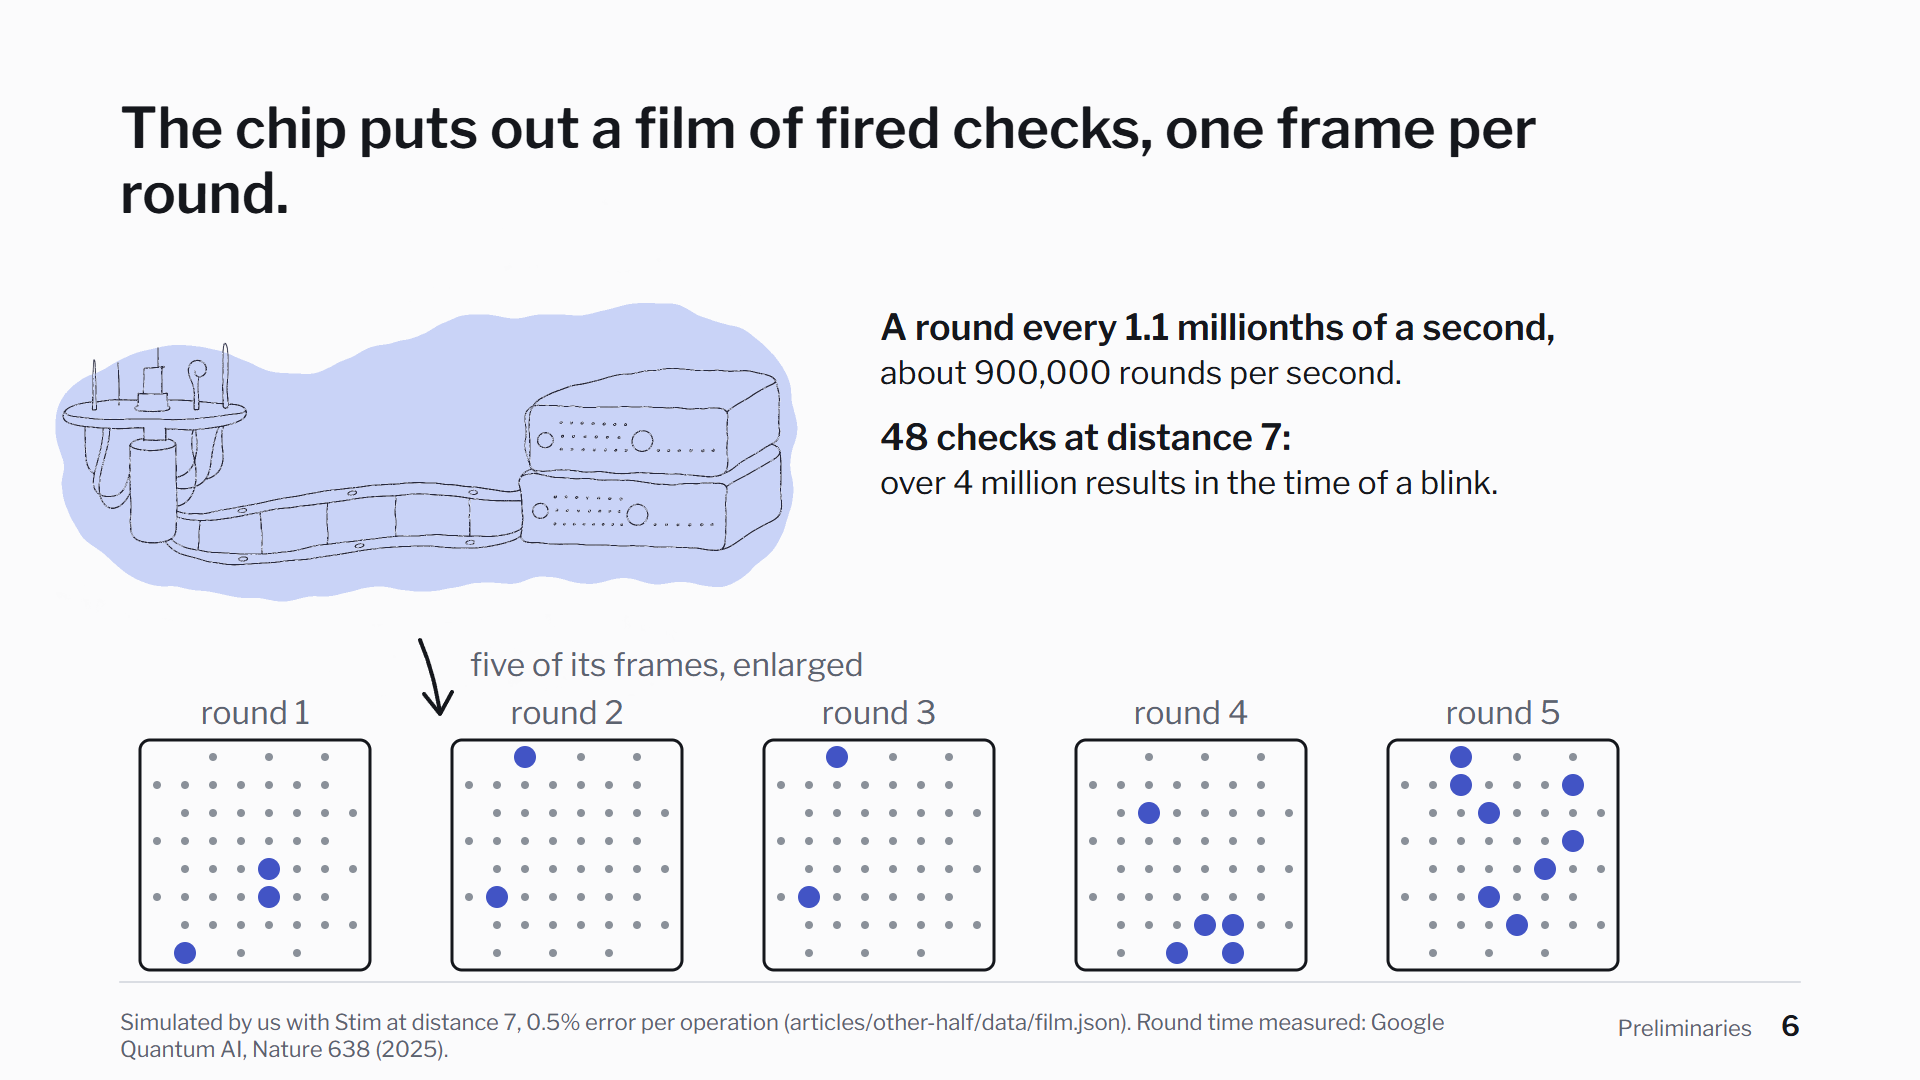
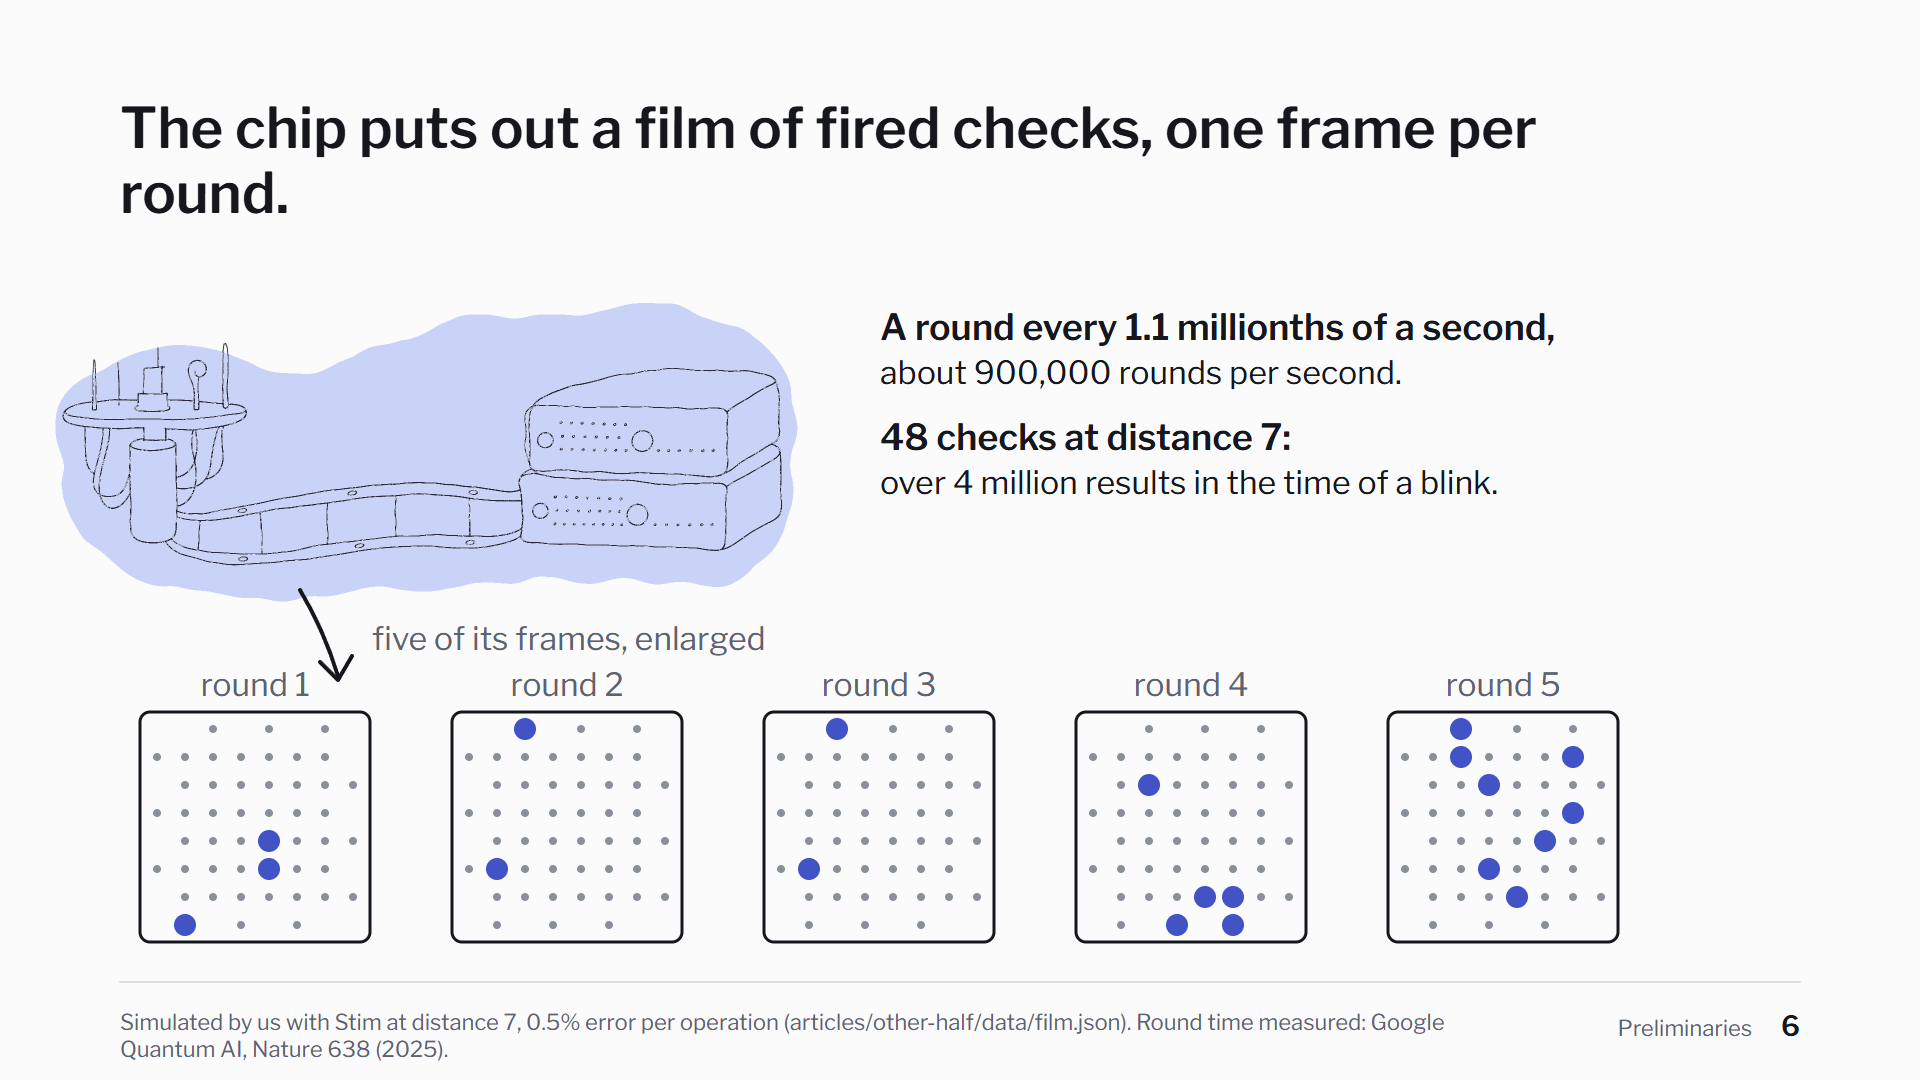
talks/quantum: review round 2 fixed (fired checks one look, labels at lines, notes and backups to the article)

diff --git a/talks/quantum/slides/14-ours/slide.js b/talks/quantum/slides/14-ours/slide.js
@@ -28,7 +28,7 @@ export default {
       const Y = (r) => y1 - ((r - ylo) / (yhi - ylo)) * (y1 - y0);
       ln(svg, x0, y0, x0, y1); ln(svg, x0, y1, x1, y1);
       T(svg, x0, y0 - 26, head, { size: 36, weight: 600 });
-      for (let v = 0; v <= xmax + 1; v += step) { ln(svg, X(v), y1, X(v), y1 + 12); T(svg, X(v), y1 + 46, String(v / 1e6), { size: 32, anchor: 'middle', fill: C.muted }); }
+      for (let v = 0; v <= xmax + 1; v += step) { ln(svg, X(v), y1, X(v), y1 + 12); T(svg, X(v), y1 + 46, String(v / 1e6), { size: 32, anchor: 'middle', fill: C.ink }); }
       T(svg, x1, y1 + 88, 'examples seen, millions', { size: 32, anchor: 'end', fill: C.muted });
       for (let r = ylo; r <= yhi + 1e-9; r += 0.002) { ln(svg, x0 - 10, Y(r), x0, Y(r)); T(svg, x0 - 16, Y(r) + 11, pct(r, 1), { size: 32, anchor: 'end', fill: C.muted }); }
       const clipId = `c${x0}`;
@@ -55,7 +55,9 @@ export default {
     const la = A.Y(0.0193);
     T(svg, A.x1, la, `network ${pct(p3.final_network.mean)}`, { size: 44, weight: 600, fill: C.accent, anchor: 'end' });
     ln(svg, ax - 6, la + 20, ax - 2, ay - 14, { stroke: C.accent, 'stroke-width': 3 });
-    T(svg, L, 960, `dashed: correlated ${pct(p3.levels.correlated.rate)}, lead not counted (B4); dotted: lookup table ${pct(p3.levels.table.rate)}`, { size: 32 });
+    // the dashed and dotted lines named at their own left ends
+    T(svg, A.x0 + 120, A.Y(p3.levels.correlated.rate) + 40, `correlated ${pct(p3.levels.correlated.rate)} (lead not counted, B4)`, { size: 32 });
+    T(svg, A.x0 + 20, A.Y(p3.levels.table.rate) + 40, `lookup table ${pct(p3.levels.table.rate)}`, { size: 32 });
     // right: distance 5, 0 to 260 million, fixed from the first build
     const B = panel(1100, R, 260e6, 50e6, 0.010, 0.024, 'Distance 5');
     level(B, p66.levels.plain.rate); level(B, p66.levels.correlated.rate, '18 12');

diff --git a/talks/quantum/slides/b3-noise-model/slide.js b/talks/quantum/slides/b3-noise-model/slide.js
@@ -7,6 +7,6 @@ export default {
   clicks: ['backup'],
   draw(page, b, data) {
     const svg = svgOf(page);
-    backup(svg, { title: this.title, n: this.n, source: "Stim (Gidney 2021), its standard circuit noise; article, section 9." }, { rows: [["The course", "The phase-flip channel: with chance p a qubit gets a phase error (Z).", "Our model contains it as one of its parts."], ["Ours", "Every operation in the simulated circuit goes wrong with the same", "chance p, with a flip, a phase error or both (X, Z or Y): depolarizing noise."], ["The levels", "Trained at seven levels from 0.2% to 1%; tested at 0.5%,", "five times the one slip per thousand of slide 2."], ["Not modelled", "Qubits leaving their two states (leakage), crosstalk, rates that differ", "from qubit to qubit or drift over time: a real chip has them."]] });
+    backup(svg, { title: this.title, n: this.n, source: "Stim (Gidney 2021), its standard circuit noise; article, sections 6 and 9, and 'What we could not show'." }, { rows: [["The course", "The phase-flip channel: with chance p a qubit gets a phase error (Z).", "Our model contains it as one of its parts."], ["Ours", "Every operation in the simulated circuit goes wrong with the same", "chance p, with a flip, a phase error or both (X, Z or Y): depolarizing noise."], ["The levels", "Trained at seven levels from 0.2% to 1%; tested at 0.5%,", "five times the one slip per thousand of slide 2."], ["Not modelled", "Qubits that slip into a third state (leakage), and chances of error", "that differ from operation to operation, as on a real chip."]] });
   },
 };

diff --git a/talks/quantum/slides/06-film/slide.js b/talks/quantum/slides/06-film/slide.js
@@ -27,7 +27,7 @@ export default {
       const both = run.frames[rounds[i]].filter((id) => run.frames[rounds[i + 1]].includes(id));
       if (both.length) twice = { i, id: both[0] };
     }
-    const fw = 230, gap = 82, y0 = 740, pitch = 28;
+    const fw = 230, gap = 82, y0 = 712, pitch = 28;
     // a check's centre sits half a pitch off its qubits; rows and columns run -1..d-1
     const pos = (c) => { const g = toGrid(c, dd); return [17 + (g.col + 1) * pitch, 17 + (g.row + 1) * pitch]; };
     rounds.forEach((r, i) => {
@@ -42,9 +42,9 @@ export default {
       }
     });
     // the strip's frames, enlarged: an Excalidraw-like arrow from the drawn strip down to the row
-    pth(svg, 'M 420 640 C 432 668, 436 690, 440 712', { 'stroke-width': 4 });
-    pth(svg, 'M 424 694 L 440 714 L 452 692', { 'stroke-width': 4 });
-    T(svg, 470, 676, 'five of its frames, enlarged', { size: 32, fill: C.muted });
+    pth(svg, 'M 300 590 C 318 620, 330 650, 338 676', { 'stroke-width': 4 });
+    pth(svg, 'M 320 662 L 338 680 L 352 656', { 'stroke-width': 4 });
+    T(svg, 372, 650, 'five of its frames, enlarged', { size: 32, fill: C.muted });
     const tx = 880;
     if (b >= 1) {
       T(svg, tx, 340, 'A round every 1.1 millionths of a second,', { size: 36, weight: 600 });

diff --git a/talks/quantum/slides/15-properties/slide.js b/talks/quantum/slides/15-properties/slide.js
@@ -19,7 +19,7 @@ export default {
       ['Relevance', 'on Google’s data: Λ from 2.04 to 2.14, the reader alone', 'at Λ near 2, one more halving costs 64 qubits (97 to 161)'],
       ['Availability', 'about 250 million examples to pass plain matching', 'correlated matching is free; a network at live speed is only claimed'],
     ];
-    const y0 = 340, hh = 128;
+    const y0 = 330, hh = 118;
     rows.forEach(([k, a, c], i) => {
       const y = y0 + i * hh;
       ln(svg, L, y, R, y, { stroke: C.hair, 'stroke-width': 2 });
@@ -29,8 +29,8 @@ export default {
     });
     ln(svg, L, y0 + 4 * hh, R, y0 + 4 * hh, { stroke: C.hair, 'stroke-width': 2 });
     if (b >= 1) {
-      T(svg, L, 900, 'Our stop rule’s first test is passed: a laptop could train it, in under two hours per seed.', { size: 32, weight: 600 });
-      T(svg, L, 944, 'Its second test, on Google’s real recordings, is still open; correlated matching stays ahead.', { size: 32 });
+      T(svg, L, 872, 'Our stop rule’s first test is passed: by our timing a laptop would train it in under two hours per seed.', { size: 32, weight: 600 });
+      T(svg, L, 916, 'Its second test, on Google’s real recordings, is still open; correlated matching stays ahead.', { size: 32 });
     }
   },
 };

diff --git a/talks/quantum/slides/11-google/slide.js b/talks/quantum/slides/11-google/slide.js
@@ -19,7 +19,7 @@ export default {
     const Y = (v) => y1 - ((Math.log10(v) - lo) / (hi - lo)) * (y1 - y0);
     const X = (d) => x0 + 60 + ((d - 3) / 4) * (x1 - x0 - 160);
     ln(svg, x0, y0 - 10, x0, y1); ln(svg, x0, y1, x1, y1);
-    [100, 200, 500, 1000].forEach((v) => { ln(svg, x0 - 12, Y(v), x0, Y(v)); T(svg, x0 - 22, Y(v) + 12, String(v), { size: 32, anchor: 'end', fill: C.muted }); });
+    [100, 200, 500, 1000].forEach((v) => { ln(svg, x0 - 12, Y(v), x0, Y(v)); T(svg, x0 - 22, Y(v) + 12, String(v), { size: 32, anchor: 'end', fill: C.ink }); });
     [3, 5, 7].forEach((d) => { ln(svg, X(d), y1, X(d), y1 + 12); T(svg, X(d), y1 + 50, `distance ${d}`, { size: 32, anchor: 'middle' }); });
     T(svg, L, y0 - 40, 'logical errors per 100,000 rounds (log scale)', { size: 32, weight: 600 });
     const draw = (dec, col) => {

diff --git a/talks/quantum/slides/07-matching/slide.js b/talks/quantum/slides/07-matching/slide.js
@@ -25,7 +25,8 @@ export default {
     const ux = q0x - zx, uy = q0y - zy, n = Math.hypot(ux, uy);
     const qx = q0x + (ux / n) * 70, qy = q0y + (uy / n) * 70;
     pth(svg, `M${zx} ${zy} Q ${(zx + qx) / 2 - 12} ${(zy + qy) / 2 + 10} ${qx} ${qy}`, { 'stroke-width': 5 });
-    T(svg, qx - 10, qy - 24, 'edge', { size: 32, anchor: 'end', fill: C.muted });
+    pth(svg, `M${qx - 26} ${qy + 22} L${qx + 22} ${qy - 26}`, { 'stroke-width': 4, 'stroke-dasharray': '8 8' });
+    T(svg, qx - 20, qy - 30, 'edge', { size: 32, anchor: 'end', fill: C.muted });
     const [ax, ay] = c('x0'), [bx, by] = c('x1');
     pth(svg, `M${ax} ${ay} Q ${(ax + bx) / 2 + 30} ${(ay + by) / 2 - 30} ${bx} ${by}`, { 'stroke-width': 5 });
     const tx = 1060;

diff --git a/talks/quantum/kit.js b/talks/quantum/kit.js
@@ -92,6 +92,10 @@ export function slideGrid(parent, o) {
     t.field.setAttribute('stroke-width', 3);
     t.dot.setAttribute('r', Math.max(10, o.pitch * 0.15));   // the dot carries 'fired' on either kind of tile
     if (t.helper) t.helper.setAttribute('r', Math.max(6, o.pitch * 0.065));
+    // on slides a fired check looks the same on both kinds of tile (field and
+    // large dot); the kind stays in the outline (ink for flips, grey for phase)
+    const fired = t.setFired.bind(t), flips = t.check.asks_about === 'flips';
+    t.setFired = (p) => { fired(p); if (flips) t.base.setAttribute('fill-opacity', p > 0.001 ? 0 : 0.16); };
   });
   G.qubits.forEach((q) => q.el.setAttribute('stroke-width', 3));
   return G;

diff --git a/talks/quantum/slides/05-checks/slide.js b/talks/quantum/slides/05-checks/slide.js
@@ -27,7 +27,7 @@ export default {
     sw(360, true); T(svg, kx + 76, 360, 'tinted: asks about flips', { size: 32 });
     sw(440, false); T(svg, kx + 76, 440, 'open: asks about phase errors', { size: 32 });
     rc(svg, kx, 486, 52, 52, { fill: C.field, stroke: C.accent }); dot(svg, kx + 26, 512, 13, { fill: C.accent });
-    T(svg, kx + 76, 520, 'fired (blue dot): the answer changed', { size: 32, weight: 600, fill: C.accent });
+    T(svg, kx + 76, 520, 'fired (large blue dot): the answer changed', { size: 32, weight: 600, fill: C.accent });
     T(svg, kx, 610, 'X a flip, Z a phase error, Y both', { size: 32 });
     if (b === 1) {
       T(svg, kx, 720, 'One flip in the middle:', { size: 36, weight: 600 });

diff --git a/talks/quantum/slides/10-two-ways/slide.js b/talks/quantum/slides/10-two-ways/slide.js
@@ -26,7 +26,7 @@ export default {
       if (i === 0) return;
       const ans = i === 1 ? ex.plain_matching : ex.read_together;
       Object.entries(ans.errors).forEach(([q, l]) => { const [x, y] = G.pos(Number(q)); errMark(G.gE, x, y, 24, l); });
-      if (i === 2) { const [x, y] = G.pos(5); errMark(G.gE, x, y, 24, 'Z', 'added'); T(svg, x + 76, y + 12, 'or here', { size: 32 }); }
+      if (i === 2) { const [x, y] = G.pos(5); errMark(G.gE, x, y, 24, 'Z', 'added'); T(svg, x + 30, y - 32, 'or here', { size: 32 }); }
       // 30 dots, 3 rows of 10: how often this answer is right
       const n = Math.round(ans.chance_right * 30);
       for (let k = 0; k < 30; k++) {

diff --git a/talks/quantum/slides/12-clock/slide.js b/talks/quantum/slides/12-clock/slide.js
@@ -21,7 +21,7 @@ export default {
     const X = (t) => x0 + (t / T80) * (x1 - x0);
     const axisY = 900;
     ln(svg, x0, axisY, x1, axisY);
-    [0, 20, 40, 60, 80].forEach((t) => { ln(svg, X(t), axisY, X(t), axisY + 12); T(svg, X(t), axisY + 50, String(t), { size: 32, anchor: 'middle', fill: C.muted }); });
+    [0, 20, 40, 60, 80].forEach((t) => { ln(svg, X(t), axisY, X(t), axisY + 12); T(svg, X(t), axisY + 50, String(t), { size: 32, anchor: 'middle', fill: C.ink }); });
     T(svg, L, axisY + 50, 'millionths of a second', { size: 32, fill: C.muted });
     // lane 1: the chip
     const y1 = 380;

diff --git a/talks/quantum/slides/09-patterns/slide.js b/talks/quantum/slides/09-patterns/slide.js
@@ -23,7 +23,6 @@ export default {
       else if (c.state === 'tie-best') dot(svg, x, y, 13, { fill: C.mid });
       else dot(svg, x, y, 12, { fill: 'none', stroke: C.ink, 'stroke-width': 3 });
     });
-    T(svg, x0, y0 + 16 * p + 46, 'rows and columns: none fired first', { size: 32, fill: C.muted });
     const kx = 900, cn = s.counts;
     const row = (y, n, mark, a, bb) => {
       mark(kx + 16, y - 18);

diff --git a/talks/quantum/CUES.md b/talks/quantum/CUES.md
@@ -6,31 +6,31 @@ Generated by `node tools/qdeck.mjs` from each slide's `notes.md`. Times: the not
 | ---: | --- | ---: | --- | --- | --- |
 | 1 | 1 recording | 0:00 | 1 of 2 | the talk, the drawing |  |
 | 2 | 1 recording |  | 2 of 2 | two readers, two rates | One recording from Google’s chip gave two error rates. |
-| 3 | 2 threshold | 0:54 | 1 of 1 | slips against steps; the threshold, schematic | A bigger grid helps when each qubit is below the threshold. |
-| 4 | 3 logical | 1:53 | 1 of 1 | three qubits together; no copy | A logical qubit keeps its value in how its qubits relate. |
-| 5 | 4 grid | 2:39 | 1 of 1 | distances 3, 5 and 7 | Only about half of a logical qubit’s qubits store anything. |
-| 6 | 5 checks | 3:07 | 1 of 3 | the grid and its two kinds of check |  |
+| 3 | 2 threshold | 0:56 | 1 of 1 | slips against steps; the threshold, schematic | A bigger grid helps when each qubit is below the threshold. |
+| 4 | 3 logical | 1:55 | 1 of 1 | three qubits together; no copy | A logical qubit keeps its value in how its qubits relate. |
+| 5 | 4 grid | 2:41 | 1 of 1 | distances 3, 5 and 7 | Only about half of a logical qubit’s qubits store anything. |
+| 6 | 5 checks | 3:09 | 1 of 3 | the grid and its two kinds of check |  |
 | 7 | 5 checks |  | 2 of 3 | one flip: two checks fire |  |
 | 8 | 5 checks |  | 3 of 3 | a line of two: only its end fires | A check reports whether the number of errors next to it is even or odd. |
-| 9 | 6 film | 4:15 | 1 of 3 | the film and five of its frames |  |
+| 9 | 6 film | 4:17 | 1 of 3 | the film and five of its frames |  |
 | 10 | 6 film |  | 2 of 3 | how fast |  |
 | 11 | 6 film |  | 3 of 3 | a wrong report fires twice | The chip puts out a film of fired checks, one frame per round. |
-| 12 | 7 matching | 5:11 | 1 of 1 | three fired checks, one pairing | The standard decoder, matching, pairs fired checks along the cheapest lines. |
-| 13 | 8 silent | 5:50 | 1 of 3 | three real flips, one check fires |  |
+| 12 | 7 matching | 5:18 | 1 of 1 | three fired checks, one pairing | The standard decoder, matching, pairs fired checks along the cheapest lines. |
+| 13 | 8 silent | 5:57 | 1 of 3 | three real flips, one check fires |  |
 | 14 | 8 silent |  | 2 of 3 | matching adds two flips below |  |
 | 15 | 8 silent |  | 3 of 3 | together: edge to edge, nothing fires | Errors plus a wrong correction can cross the grid without firing a single check. |
-| 16 | 9 patterns | 6:41 | 1 of 1 | 256 patterns, 24 filled | Matching gives the less likely answer on 24 of the 256 patterns we counted. |
-| 17 | 10 two-ways | 7:31 | 1 of 2 | the pattern and plain matching |  |
+| 16 | 9 patterns | 6:48 | 1 of 1 | 256 patterns, 24 filled | Matching gives the less likely answer on 24 of the 256 patterns we counted. |
+| 17 | 10 two-ways | 7:38 | 1 of 2 | the pattern and plain matching |  |
 | 18 | 10 two-ways |  | 2 of 2 | the Y answer, two ways | The Y answer is right six times in ten because it can happen in two ways. |
-| 19 | 11 google | 8:42 | 1 of 2 | Google’s best matching decoder |  |
+| 19 | 11 google | 8:49 | 1 of 2 | Google’s best matching decoder |  |
 | 20 | 11 google |  | 2 of 2 | the network | On Google’s recordings the network made about one error in six fewer. |
-| 21 | 12 clock | 9:45 | 1 of 2 | the chip’s rounds and the network’s answers |  |
+| 21 | 12 clock | 9:52 | 1 of 2 | the chip’s rounds and the network’s answers |  |
 | 22 | 12 clock |  | 2 of 2 | live matching, another setup | The network needed 24 millionths of a second for a round the chip finishes in 1.1. |
-| 23 | 13 method | 10:43 | 1 of 2 | data and network |  |
+| 23 | 13 method | 10:50 | 1 of 2 | data and network |  |
 | 24 | 13 method |  | 2 of 2 | the baselines, the table, the stop rule | We trained a small network in simulation and wrote down our stop rule first. |
-| 25 | 14 ours | 11:45 | 1 of 2 | distance 3; distance 5 after 66 million |  |
+| 25 | 14 ours | 11:52 | 1 of 2 | distance 3; distance 5 after 66 million |  |
 | 26 | 14 ours |  | 2 of 2 | distance 5, about 250 million | Ours passed plain matching at distance 5 only after about 250 million examples. |
-| 27 | 15 properties | 12:50 | 1 of 2 | four properties |  |
+| 27 | 15 properties | 13:01 | 1 of 2 | four properties |  |
 | 28 | 15 properties |  | 2 of 2 | what the stop rule decided | A decoder gives no quantum speed-up, but its accuracy changes how big a useful machine must be. |
 | 29 | end questions |  | 1 of 1 | questions | Questions |
 | 30 | BB1 uncompute |  | 1 of 1 | backup | A helper learns only the parity, and is reset for the next round. |
@@ -42,16 +42,16 @@ Generated by `node tools/qdeck.mjs` from each slide's `notes.md`. Times: the not
 | 36 | BB7 preprint |  | 1 of 1 | backup | AlphaQubit 2 claims a network that keeps pace. Nobody has reviewed it yet. |
 | 37 | BB8 recordings |  | 1 of 1 | backup | The test on Google’s public recordings is still open. |
 
-**Main talk:** 1600 words, 13:54 in all. Contrast sentences in the notes: 0.
+**Main talk:** 1630 words, 14:08 in all. Contrast sentences in the notes: 0.
 
 | Slide | Seconds | Words |
 | ---: | ---: | ---: |
-| 1 recording | 54 | 106 |
+| 1 recording | 56 | 110 |
 | 2 threshold | 59 | 119 |
 | 3 logical | 46 | 91 |
 | 4 grid | 28 | 51 |
 | 5 checks | 68 | 133 |
-| 6 film | 56 | 88 |
+| 6 film | 61 | 99 |
 | 7 matching | 40 | 77 |
 | 8 silent | 50 | 94 |
 | 9 patterns | 50 | 100 |
@@ -59,5 +59,5 @@ Generated by `node tools/qdeck.mjs` from each slide's `notes.md`. Times: the not
 | 11 google | 62 | 106 |
 | 12 clock | 59 | 115 |
 | 13 method | 61 | 121 |
-| 14 ours | 66 | 130 |
-| 15 properties | 64 | 126 |
+| 14 ours | 69 | 138 |
+| 15 properties | 67 | 133 |
